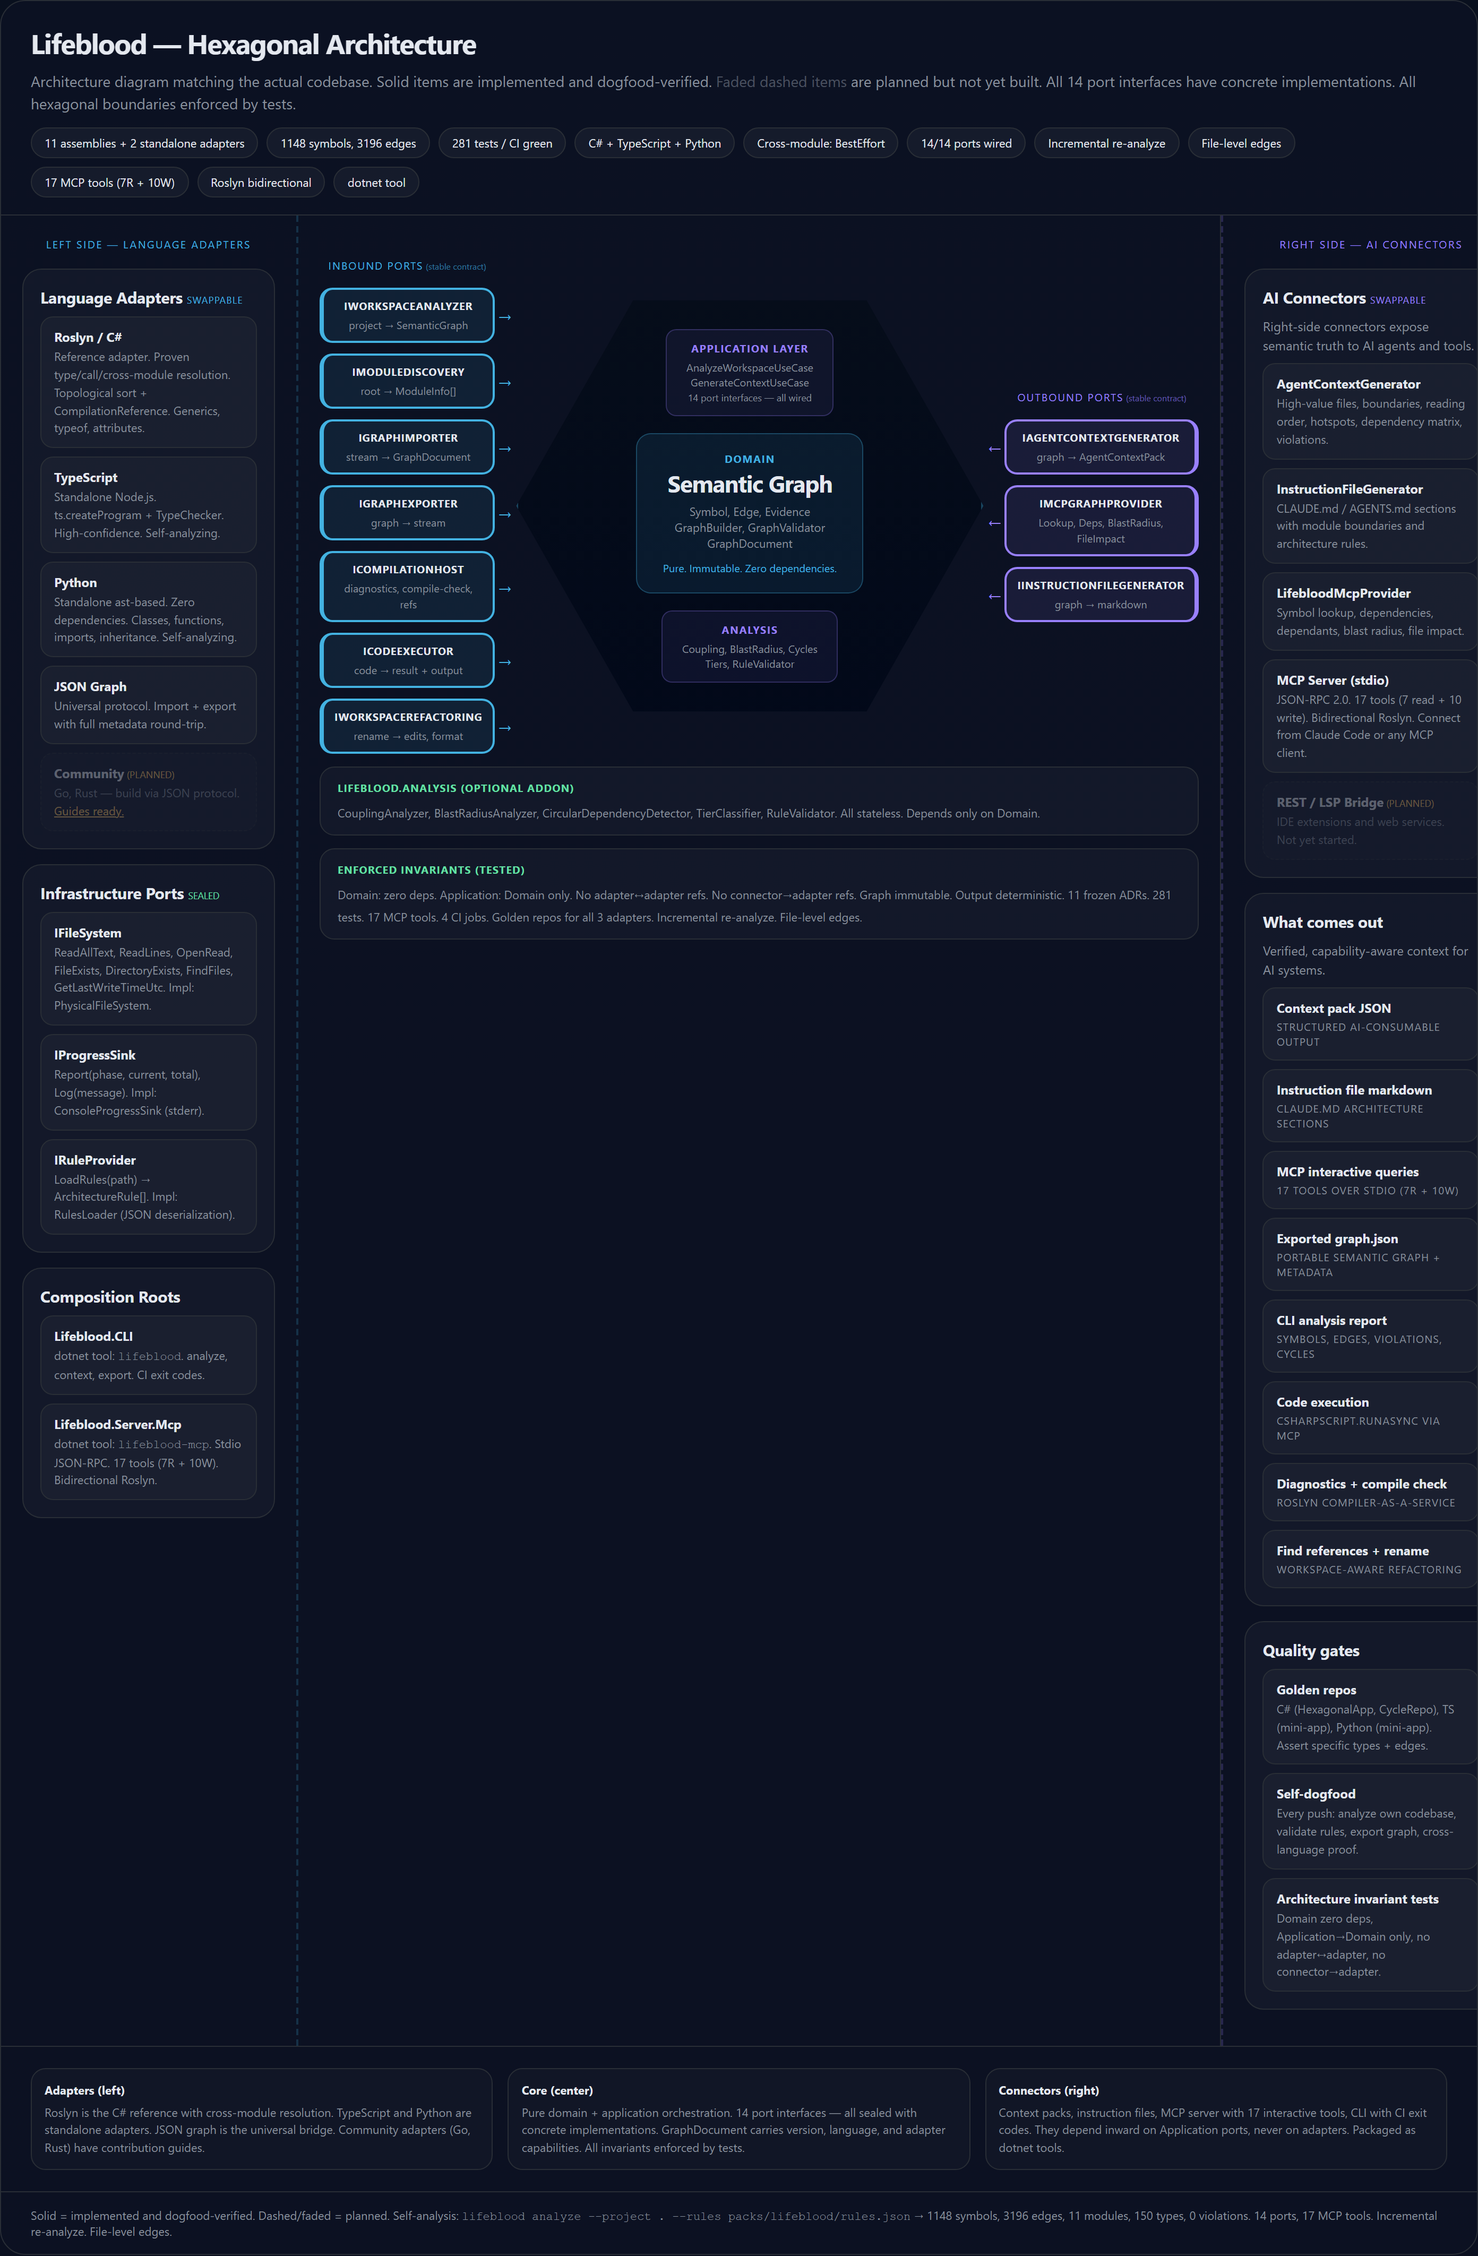
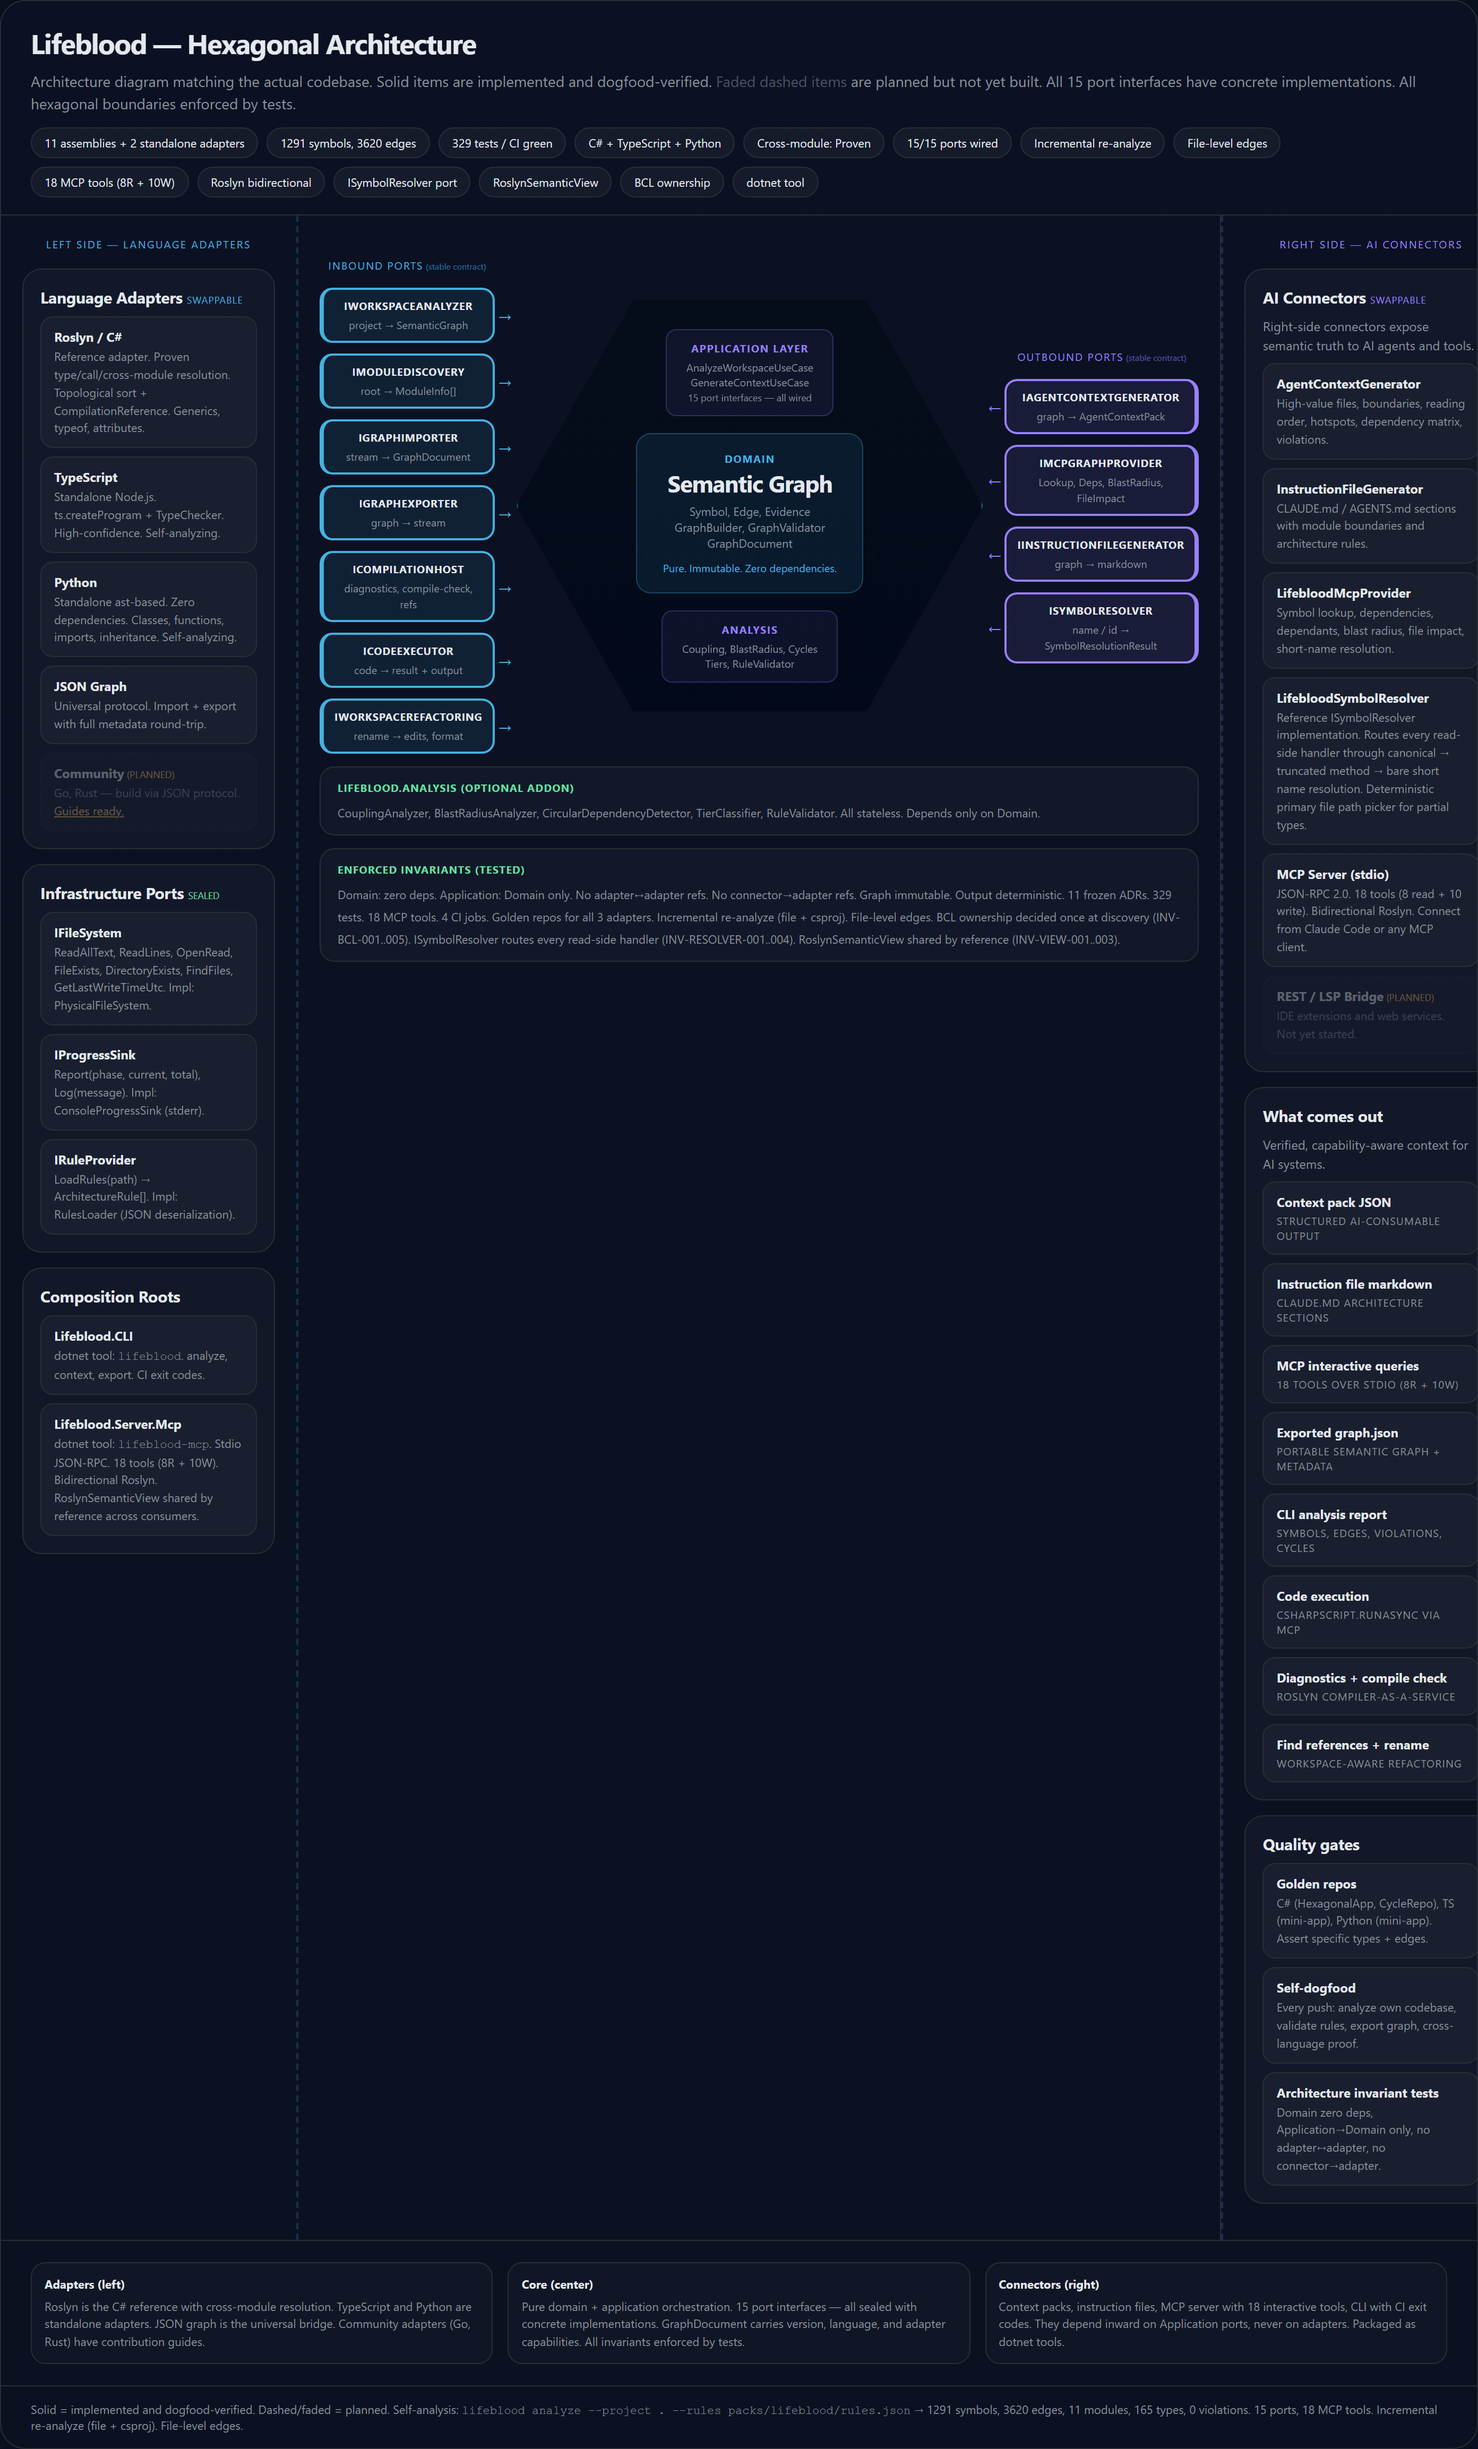
docs: re-verify all numbers, regenerate architecture screenshot
Full re-verification pass for the v0.6.0 doc pack. Every claim in the docs
re-checked against the live repo state, with the production verification
numbers re-run from scratch against the real 75-module Unity workspace.

Verified

  329/329 tests       dotnet test tests/Lifeblood.Tests/Lifeblood.Tests.csproj
  18 MCP tools        ToolRegistry.cs (8 read-side + 10 write-side)
  15 port interfaces  src/Lifeblood.Application/Ports/**/*.cs
  10 C# projects      src/*.csproj
  11 frozen ADRs      docs/ARCHITECTURE_DECISIONS.md
  Self-analysis       1291 symbols, 3620 edges, 11 modules, 165 types,
                      0 violations (CLI re-run, no drift)
  Three seams         RoslynSemanticView.cs, CanonicalSymbolFormat.cs,
                      ISymbolResolver.cs, ModuleInfo.BclOwnership +
                      AllowUnsafeCode, AnalysisSnapshot.CsprojTimestamps,
                      FindReferencesOptions.IncludeDeclarations
                      (all on disk, all wired)
  CrossModule Proven  RoslynCapabilityDescriptor.cs:21
  Build clean         Lifeblood.Adapters.CSharp 0 warnings, 0 errors

Numbers refreshed (DAWG-side production verification re-run, drift from
prior session noted)

  Symbols  44,566  ->  44,569   (+3)
  Edges    87,233  ->  87,238   (+5)
  Types    2,411   ->  2,439    (+28)
  Cycles   90      ->  91       (+1)

The drift comes from real consumer-workspace commits between the prior
verification snapshot and this re-verification pass. Numbers updated in:
[…]

diff --git a/docs/DOGFOOD_FINDINGS.md b/docs/DOGFOOD_FINDINGS.md
@@ -2,7 +2,7 @@
 
 First successful self-analysis: 2026-04-07. Lifeblood analyzed its own codebase (9 modules at the time, now 11). These are the real issues discovered by running our own tool on ourselves. All findings were fixed in the same session. The numbers below reflect the codebase state at the time of discovery.
 
-**Current state (2026-04-10, session 7, post-v0.6.0):** 1291 symbols, 3620 edges, 11 modules, 165 types, 0 violations (17 rules). Verified on a real 400k+ LOC Unity workspace: 44,566 symbols, 87,233 edges, 75 modules, 2,411 types, 90 cycles, around 4 GB peak memory. Three adapters (C#, TypeScript, Python) all self-analyzing and cross-language validated. **18 MCP tools (8 read + 10 write).** All Roslyn capabilities at Proven. Streaming compilation with downgrading. Unity csproj support (old-format and SDK-style). GraphBuilder deduplicates all edges and synthesizes one Contains edge per partial declaration file. Security scanner handles chained invocations. **329 tests.** **15 port interfaces** including the new `ISymbolResolver`. Three architectural seams: the ISymbolResolver port, csproj-driven compilation facts, and the RoslynSemanticView typed adapter view. BCL ownership (HostProvided or ModuleProvided) is decided once at csproj parsing. This closes the silent zero-result class on Unity, .NET Framework, and Mono workspaces.
+**Current state (2026-04-10, session 7, post-v0.6.0):** 1291 symbols, 3620 edges, 11 modules, 165 types, 0 violations (17 rules). Verified on a real 400k+ LOC Unity workspace: 44,569 symbols, 87,238 edges, 75 modules, 2,439 types, 91 cycles, around 4 GB peak memory. Three adapters (C#, TypeScript, Python) all self-analyzing and cross-language validated. **18 MCP tools (8 read + 10 write).** All Roslyn capabilities at Proven. Streaming compilation with downgrading. Unity csproj support (old-format and SDK-style). GraphBuilder deduplicates all edges and synthesizes one Contains edge per partial declaration file. Security scanner handles chained invocations. **329 tests.** **15 port interfaces** including the new `ISymbolResolver`. Three architectural seams: the ISymbolResolver port, csproj-driven compilation facts, and the RoslynSemanticView typed adapter view. BCL ownership (HostProvided or ModuleProvided) is decided once at csproj parsing. This closes the silent zero-result class on Unity, .NET Framework, and Mono workspaces.
 
 ### Session 7. Post-BCL three-seam framing (2026-04-10)
 

diff --git a/docs/STATUS.md b/docs/STATUS.md
@@ -43,13 +43,13 @@ Violations: 0
 Tested on a real 75-module Unity project (400k+ LOC, 2,404 types):
 
 ```
-Symbols: 44,566
-Edges:   87,233
+Symbols: 44,569
+Edges:   87,238
 Modules: 75
-Types:   2,411
-Cycles:  90
+Types:   2,439
+Cycles:  91
 ```
 
-Edge count grew by 9,107 after the v0.6.0 BCL ownership and multi-parent GraphBuilder fixes. Call-graph extraction stops returning null at every System usage in workspaces that ship their own BCL (Unity, .NET Framework, Mono), and partial types now produce one Contains edge per declaration file.
+Edge count grew by more than 9,000 after the v0.6.0 BCL ownership and multi-parent GraphBuilder fixes. Call-graph extraction stops returning null at every System usage in workspaces that ship their own BCL (Unity, .NET Framework, Mono), and partial types now produce one Contains edge per declaration file.
 
 Seven dogfood sessions found [50+ real bugs](DOGFOOD_FINDINGS.md). Examples: security bypasses, silent data loss, off-by-one boundaries, resource leaks, missing AST node types, memory architecture, BCL double-load, display-string match across the source/metadata boundary, and partial-type last-write-wins. All fixed in-session.

diff --git a/README.md b/README.md
@@ -138,7 +138,7 @@ Lifeblood runs as a sidecar alongside [Unity MCP](https://github.com/CoplayDev/M
 
 Self-analysis: 1,291 symbols, 3,620 edges, 11 modules, 165 types, 0 violations.
 
-Production-verified on a 75-module Unity project: 44,566 symbols, 87,233 edges, 2,411 types. The +9,107 edges over the previous baseline come from the v0.6.0 BCL ownership fix (call-graph extraction stops returning null at every System usage in workspaces that ship their own BCL) and the multi-parent GraphBuilder fix (partial types now produce one Contains edge per declaration file).
+Production-verified on a 75-module Unity project: 44,569 symbols, 87,238 edges, 2,439 types. The +9,000-plus edges over the previous baseline come from the v0.6.0 BCL ownership fix (call-graph extraction stops returning null at every System usage in workspaces that ship their own BCL) and the multi-parent GraphBuilder fix (partial types now produce one Contains edge per declaration file).
 
 Seven sessions found [50+ real bugs](docs/DOGFOOD_FINDINGS.md) invisible to unit tests.
 

diff --git a/docs/UNITY.md b/docs/UNITY.md
@@ -90,7 +90,7 @@ Streaming compilation with downgrading keeps memory bounded:
 | Project size | Peak memory | Graph |
 |---|---|---|
 | ~10 modules (Lifeblood itself) | ~200 MB | 1,291 symbols, 3,620 edges |
-| ~75 modules (400k LOC Unity project) | ~4 GB | 44,566 symbols, 87,233 edges |
+| ~75 modules (400k LOC Unity project) | ~4 GB | 44,569 symbols, 87,238 edges |
 
 Each module is compiled, extracted, then downgraded to a lightweight PE metadata reference (~10-100KB vs ~200MB full compilation). Only one full compilation is in memory at a time.
 
